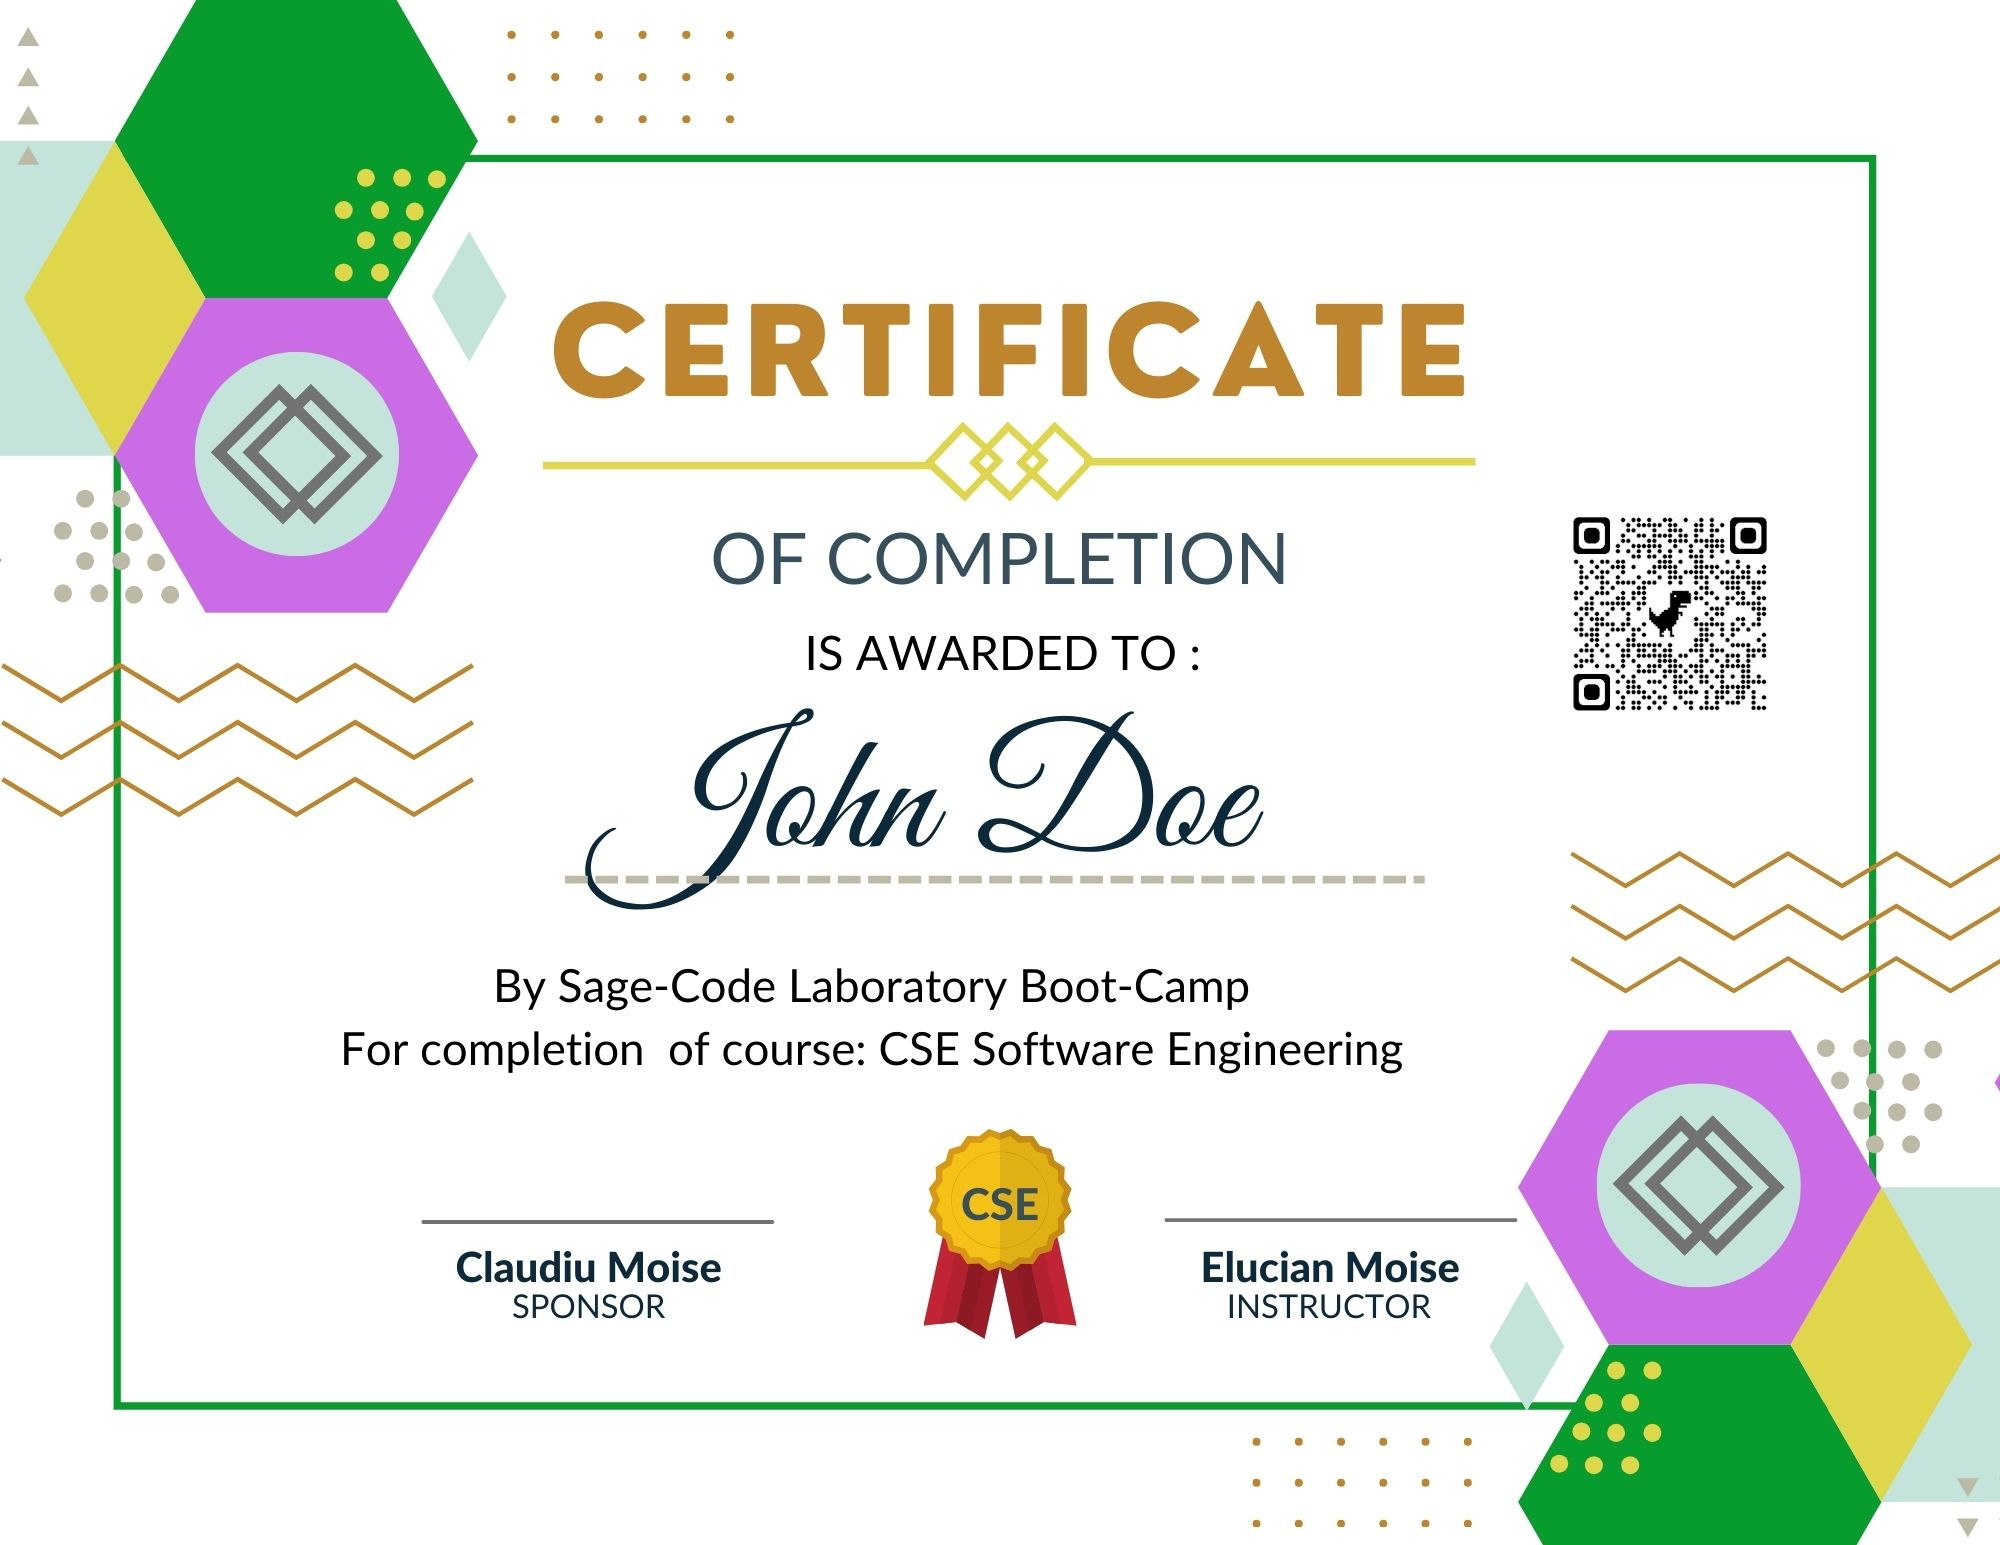
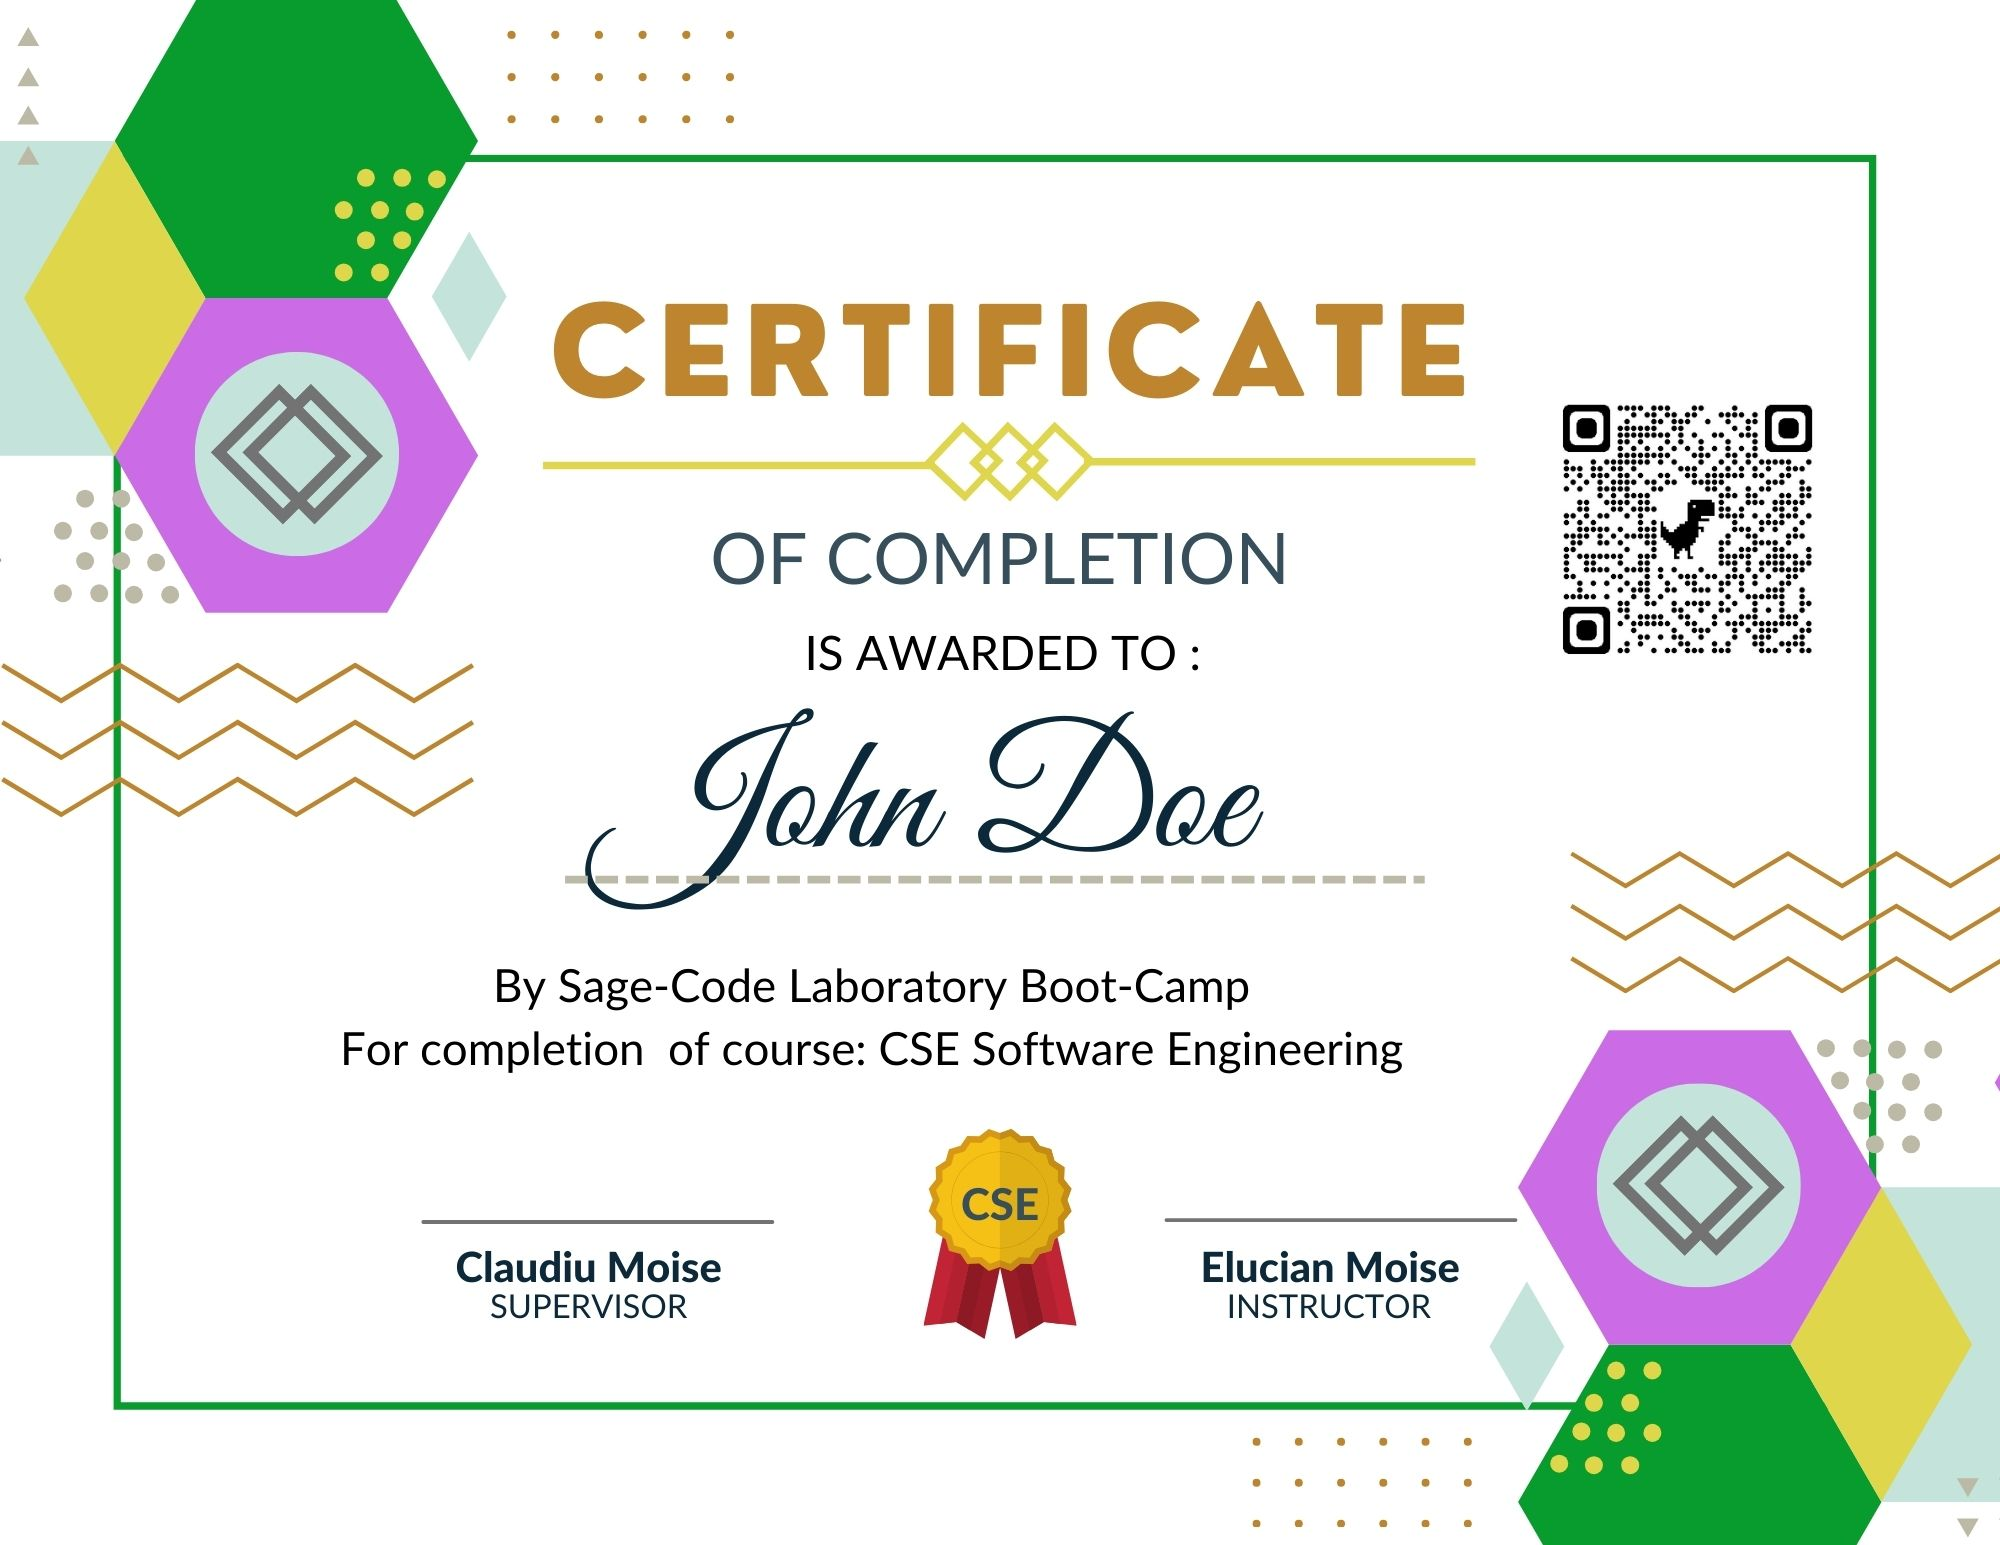
add certificate

Changed region(s): [[0.775, 0.2485, 0.899, 0.466], [0.248, 0.8388, 0.341, 0.8699]]

diff --git a/index.html b/index.html
@@ -39,11 +39,18 @@
 
 <h2>Testimonial</h2>
 
-<p>After you pass Sage-Code programming quiz you can claim a <em>testimonial</em> page. After this your page is created by one of our developers and you become part of our vip core team. You can see an example <a href="https://sage-vip.vercel.app/ada.html" rel="nofollow">here</a>. Your testimonial will be customized, with information about your skills and links to your portfolio projects.</p>
+<p>After you pass Sage-Code programming quiz you can claim a certificate of completion and <em>testimonial</em> page. You can see an example <a href="https://sage-vip.vercel.app/ada.html" rel="nofollow">here</a>. Your testimonial will be customized, with information about your skills, education and links to your portfolio projects and certifications.</p>
+
+<div align="center">
+  <img src="certificate/CSE Engineering.jpg" alt="certificate" 
+  width="420" class="img-fluid protect shadow" style="border-radius :1%">    
+  <p>John Doe<br>(Certificate of Completion)</p>
+</div>  
+
 
 <h2>Share Testimonial</h2>
 
-<p>Members who are hosting a <em>testimonial page</em> on our website can chose to share it with potential business partners or employers. We list our core team members in the table below. Our members are qualified to work as freelancers. These persons have access to our resources and are active contributors to our content.</p>
+<p>Members who are hosting a <em>testimonial page</em> on our website can chose to share it with potential business partners or employers. We list our core team members in the table below. Our members are qualified to work as freelancers. These persons have access to our resources and are active contributors to our content...</p>
 
 <div class="table-responsive">
 <table class="table table-stripped table-bordered">
@@ -93,9 +100,9 @@
 </tbody></table>
 </div>
 
-<h2>Join us</h2>
+<h2>Join our team</h2>
 
-<p>Using the button below you can register for a testimonial page. You may use this page to list your skills and prove you are one of us. We will investigate your activity on social platforms. If you application is approved we will invite you to our core team. You will receive the invitation send my GitHub in your e-mail account. We do not need your e-mail but GitHub is using it to send you an invitation.</p>
+<p>Using the button below you can register for a certificate & testimonial page. You may use this page to list your skills and prove you are one of us. We will investigate your activity on social platforms. If you application is approved we will invite you to our core team. You will receive the invitation send my GitHub in your e-mail account. We do not need your e-mail but GitHub is using it to send you an invitation.</p>
 
 <div class="text-center">
 <a class="btn btn-primary shadow" href="https://forms.gle/yYjkcpUL3kaN8S3E8" role="button"
